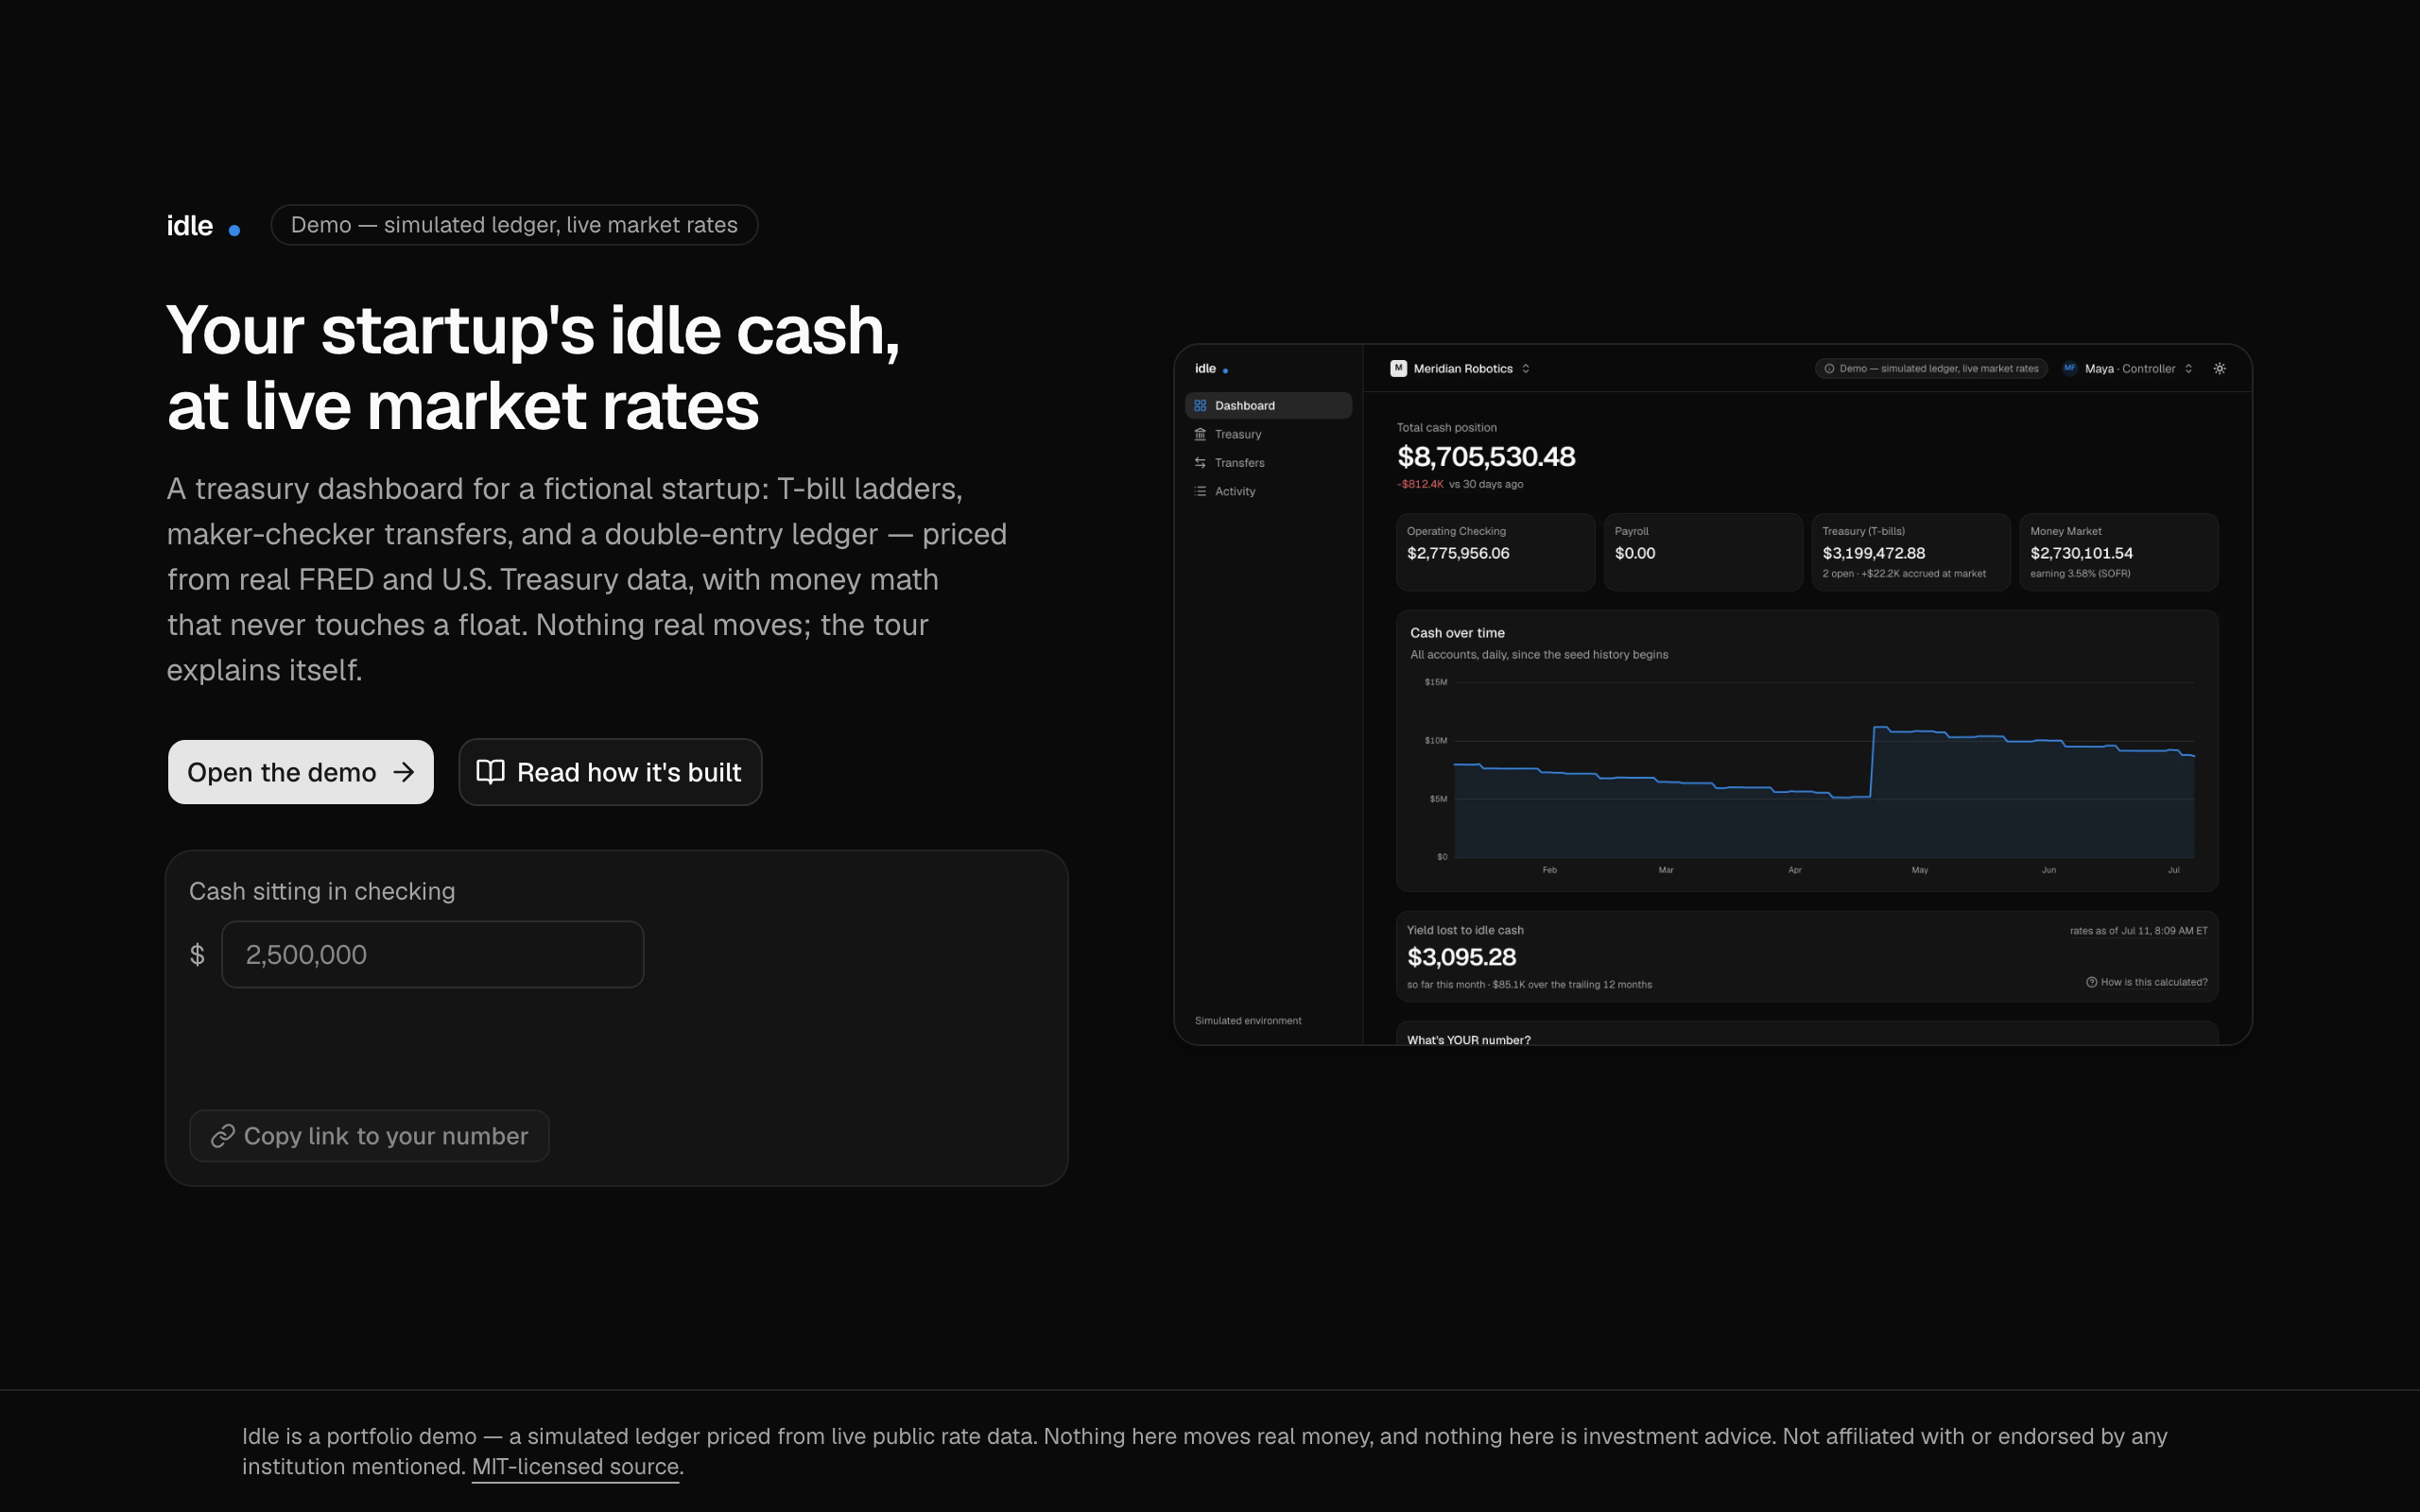
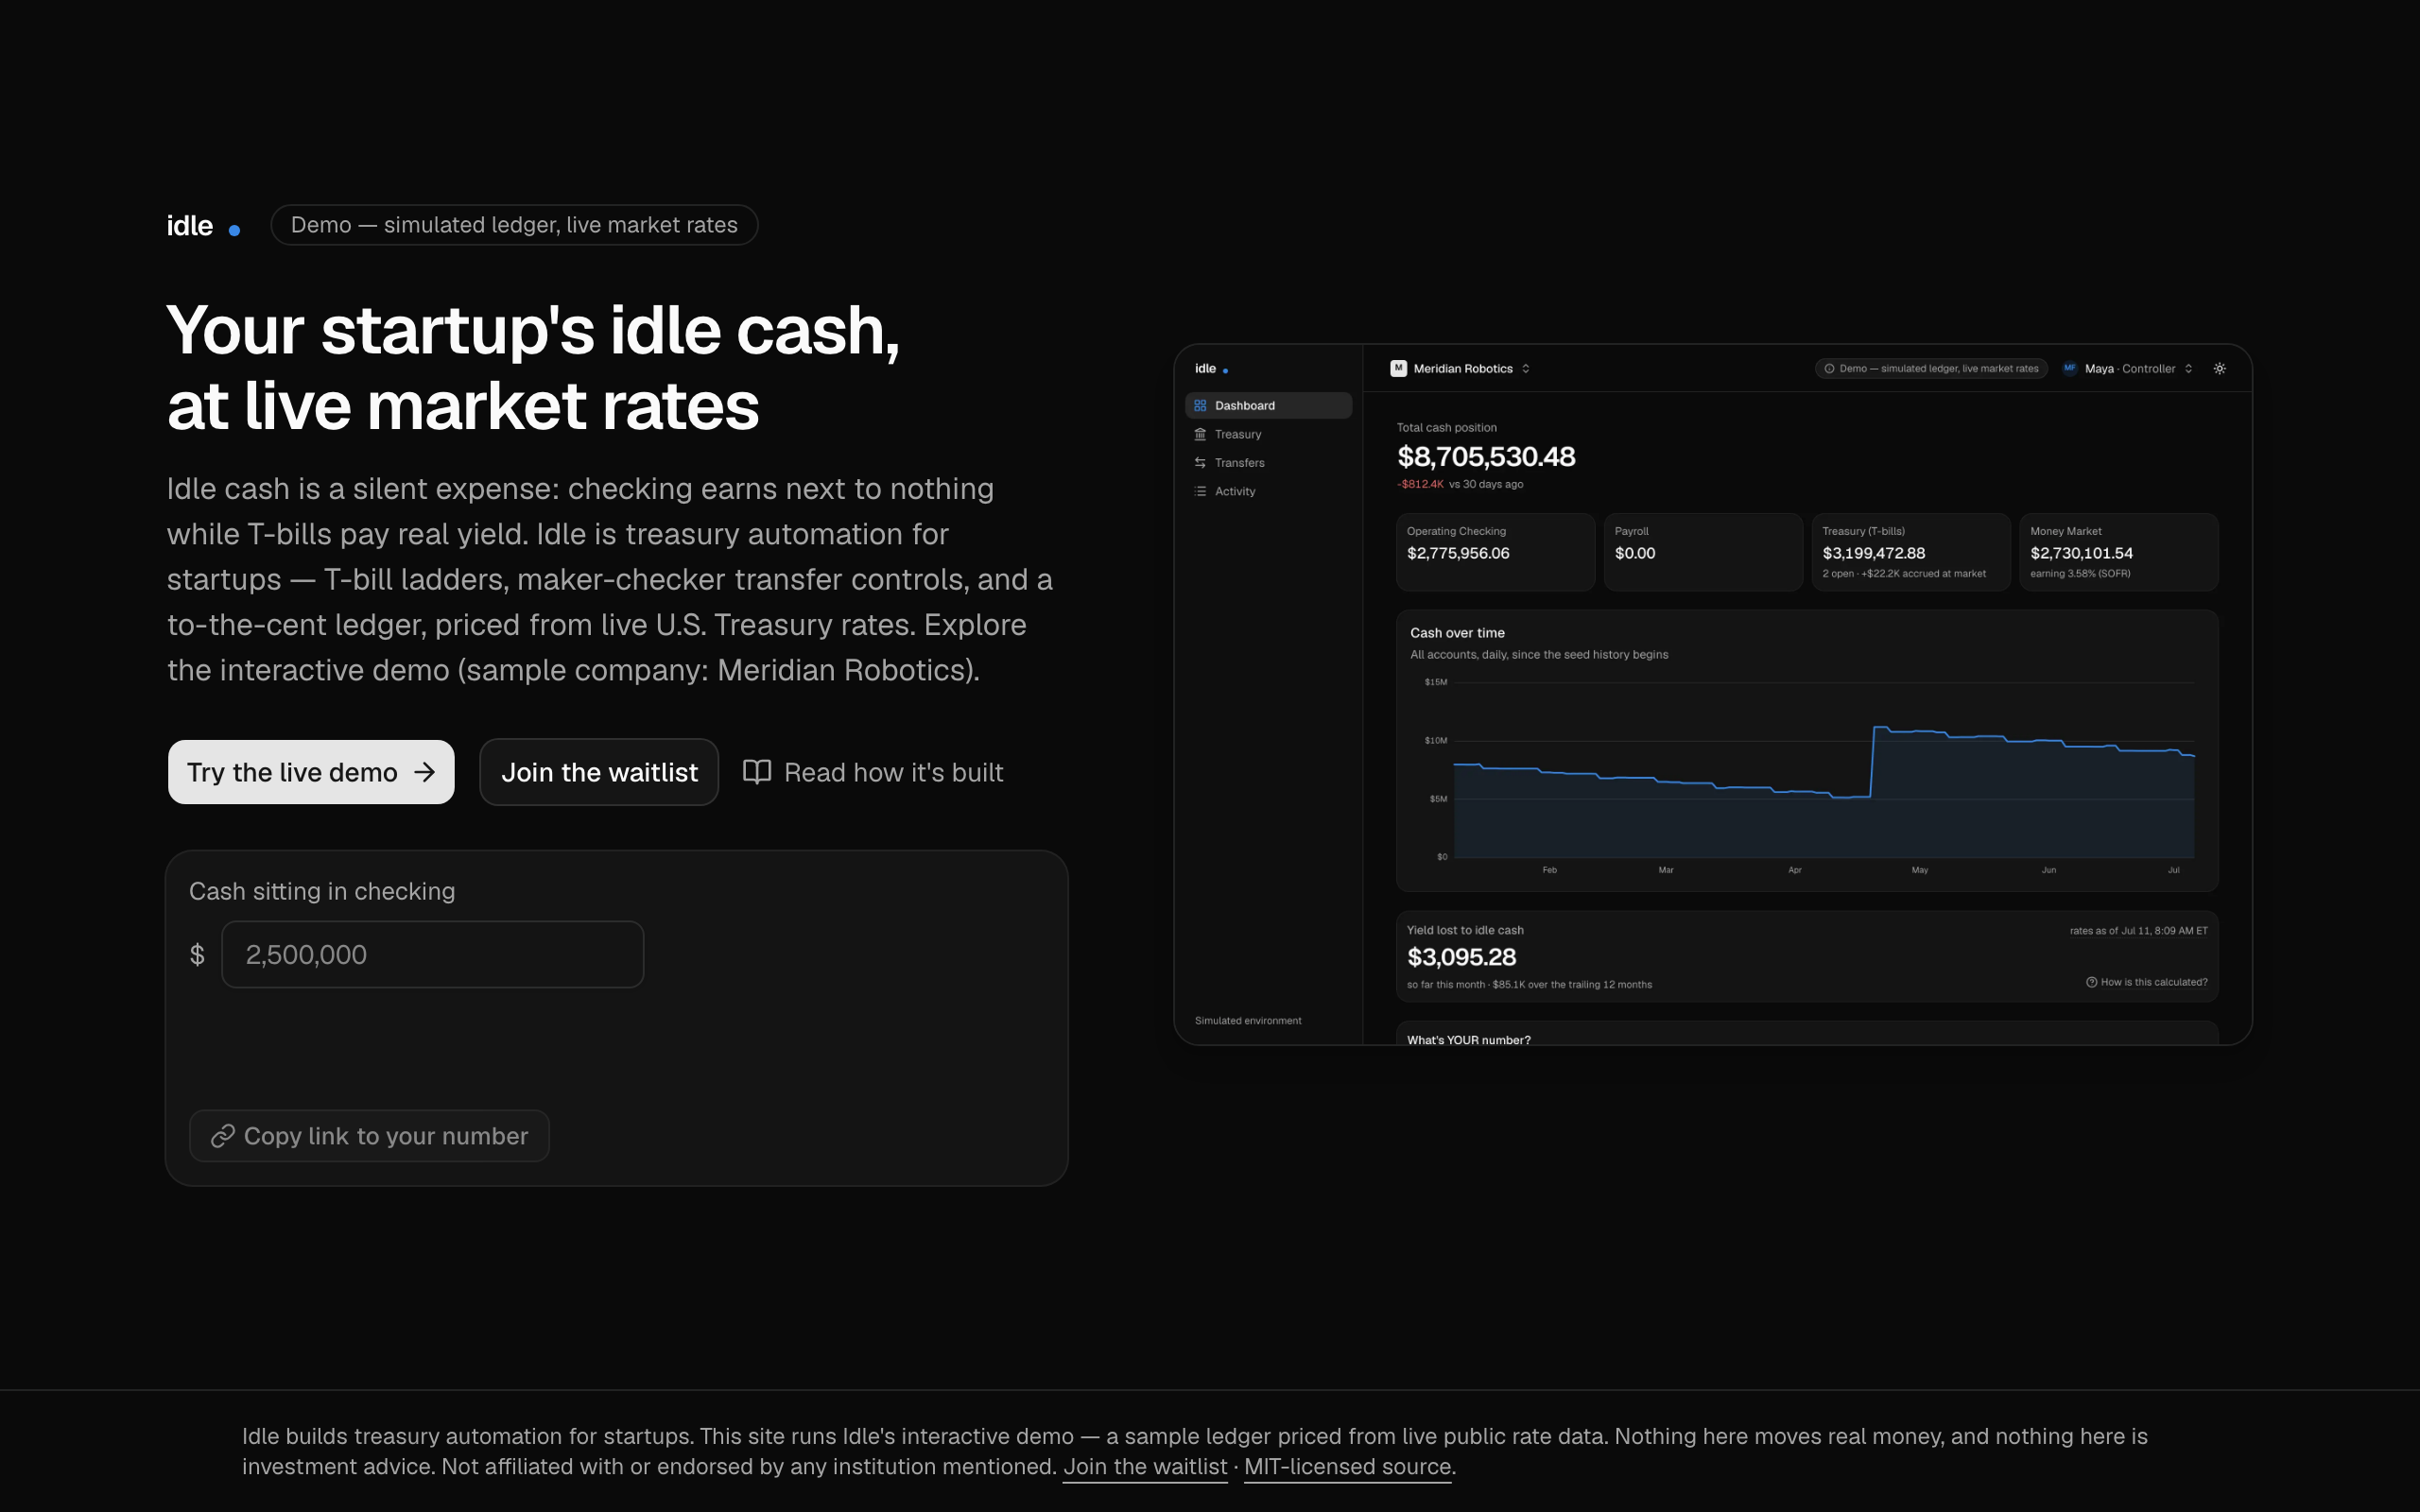
Update Idle screenshot and copy for the new product-framed landing page
The Idle landing page repositioned from a portfolio demo to treasury
automation for startups with a waitlist; recapture the screenshot and
rewrite the description and overview to match.

Changed region(s): [[0.0625, 0.3125, 0.4375, 0.4688], [0.125, 0.9375, 0.875, 1.0], [0.0625, 0.5, 0.4062, 0.5312]]

diff --git a/src/content/projects/idle.md b/src/content/projects/idle.md
@@ -1,6 +1,6 @@
 ---
 title: "Idle"
-description: "A startup treasury dashboard with live T-bill rates, a ladder builder, maker-checker transfer controls, and an audit trail — the company is fictional, but every rate is real and every cent is accounted for."
+description: "Treasury automation for startups: T-bill ladders, maker-checker transfer controls, and a to-the-cent ledger priced from live U.S. Treasury rates — with an interactive demo where every rate is real and every cent is accounted for."
 techStack: ["Next.js", "TypeScript", "Zustand", "Vitest + fast-check", "Playwright"]
 liveUrl: "https://idle-woad.vercel.app"
 repoUrl: "https://github.com/justin-notarfrancesco/idle"
@@ -15,11 +15,13 @@ order: 1
 ## Overview
 
 I spent five years building financial UI at JPMorgan Chase, where the money was real
-and the tooling had decades of institutional weight behind it. Idle is what I think the
-other end of the market deserves: the treasury dashboard a startup CFO should have for
-the cash sitting in checking. SOFR, the effective fed funds rate, and T-bill auction
-results stream in live from FRED and Treasury FiscalData; the company, its ledger, and
-its bank connection are simulated in the browser. Nothing leaves your machine.
+and the tooling had decades of institutional weight behind it. Idle brings that
+discipline to the other end of the market: idle cash is a silent expense — checking
+earns next to nothing while T-bills pay real yield — so Idle gives startups T-bill
+ladders, maker-checker transfer controls, and a to-the-cent ledger. The site runs an
+interactive demo for a sample company, Meridian Robotics: SOFR, the effective fed
+funds rate, and T-bill auction results stream in live from FRED and Treasury
+FiscalData, while the ledger and bank connection are simulated in the browser.
 
 ## What I built
 